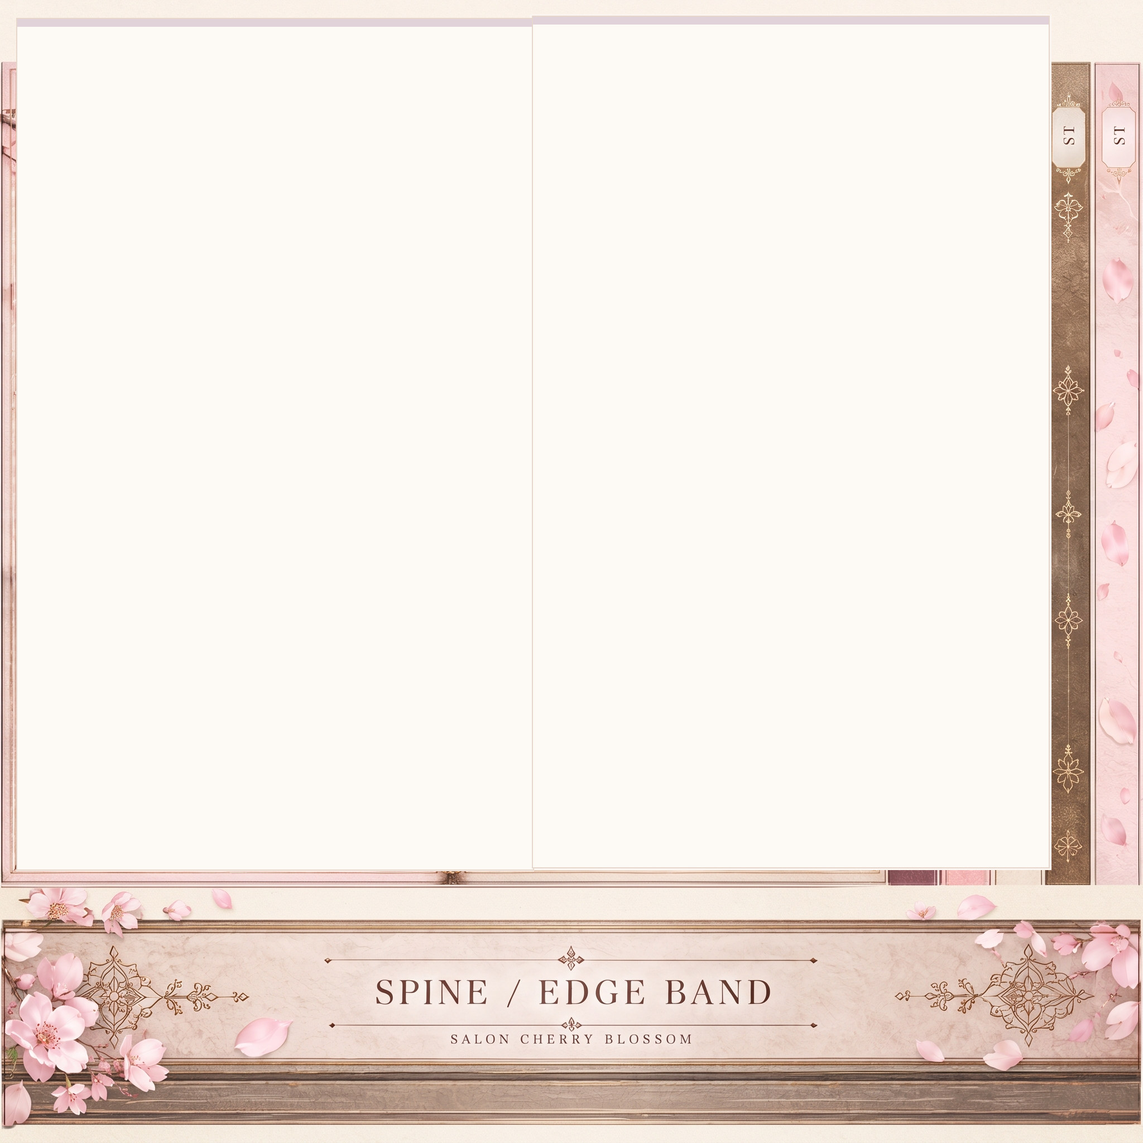
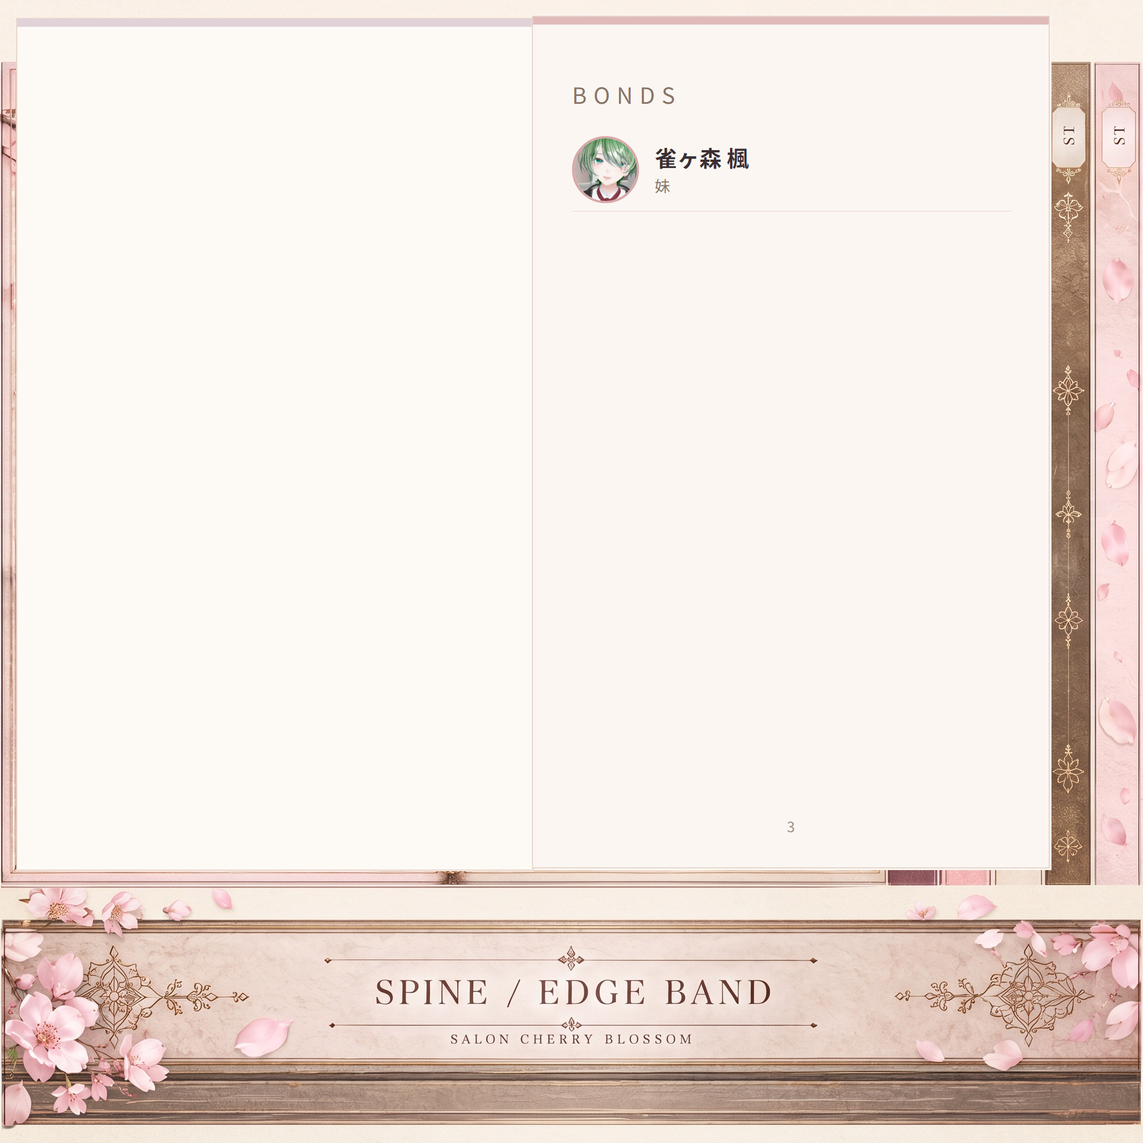
Members edit profile/outfits/book pages with uploads; relations (approved, published); studio fixes for pasted text; re-rendered books with intro/relations pages

Changed region(s): [[0.4688, 0.0, 0.9062, 0.0312], [0.5, 0.125, 0.6562, 0.1875], [0.5, 0.0625, 0.5938, 0.0938]]

diff --git a/relationships/relationships.js b/relationships/relationships.js
@@ -1,21 +1,24 @@
 "use strict";
 const $=id=>document.getElementById(id);const svgNS='http://www.w3.org/2000/svg';
-let people=[],mode='samples',selected=null,zoom=1,panX=0,panY=0;const samples=[{id:'sample-a',name:'サンプル A',x:260,y:190,color:'#c996b0'},{id:'sample-b',name:'サンプル B',x:510,y:130,color:'#a7bacc'},{id:'sample-c',name:'サンプル C',x:755,y:210,color:'#e0ad88'},{id:'sample-d',name:'サンプル D',x:250,y:480,color:'#9abfa8'},{id:'sample-e',name:'サンプル E',x:535,y:505,color:'#c9acc5'},{id:'sample-f',name:'サンプル F',x:780,y:485,color:'#d5bf87'}];
+let rels=[],people=[],mode='samples',selected=null,zoom=1,panX=0,panY=0;const samples=[{id:'sample-a',name:'サンプル A',x:260,y:190,color:'#c996b0'},{id:'sample-b',name:'サンプル B',x:510,y:130,color:'#a7bacc'},{id:'sample-c',name:'サンプル C',x:755,y:210,color:'#e0ad88'},{id:'sample-d',name:'サンプル D',x:250,y:480,color:'#9abfa8'},{id:'sample-e',name:'サンプル E',x:535,y:505,color:'#c9acc5'},{id:'sample-f',name:'サンプル F',x:780,y:485,color:'#d5bf87'}];
 const sampleEdges=[['sample-a','sample-b','family'],['sample-b','sample-c','friend'],['sample-a','sample-d','school'],['sample-d','sample-e','friend'],['sample-e','sample-f','love'],['sample-c','sample-f','school'],['sample-b','sample-e','friend']];
 const nrm=s=>String(s||'').normalize('NFKC').toLowerCase().replace(/[\s\u3000・･_-]+/g,'').replace(/[\u30a1-\u30f6]/g,ch=>String.fromCharCode(ch.charCodeAt(0)-96));
 function el(tag,attrs={},txt){const v=document.createElementNS(svgNS,tag);Object.entries(attrs).forEach(([k,val])=>v.setAttribute(k,String(val)));if(txt!==undefined)v.textContent=txt;return v;}
 function activeNodes(){if(mode==='samples')return samples;const g=$('gradeSelect').value;const subset=people.filter(p=>g==='all'||(g==='teacher'?p.kind==='teacher':p.grade===g));return subset.map((p,i)=>({...p,x:110+(i%7)*130+(Math.floor(i/7)%2)*15,y:70+Math.floor(i/7)*94}));}
 function render(){const root=$('relSvg');root.replaceChildren();const nodes=activeNodes(),ids=new Map(nodes.map(n=>[n.id,n]));const defs=el('defs');const marker=el('marker',{id:'arrow',markerWidth:10,markerHeight:8,refX:8,refY:4,orient:'auto'});marker.append(el('path',{d:'M0 0 L10 4 L0 8 Z',fill:'#af788a'}));defs.append(marker);root.append(defs);const viewport=el('g',{transform:`translate(${panX} ${panY}) scale(${zoom})`});root.append(viewport);if(mode==='samples')for(const [a,b,type] of sampleEdges){if(!document.querySelector(`input[value="${type}"]`).checked)continue;const p=ids.get(a),q=ids.get(b);if(p&&q)viewport.append(el('line',{x1:p.x,y1:p.y,x2:q.x,y2:q.y,class:`edge ${type}${selected?(a===selected||b===selected?' emphasized':' dimmed'):''}`}));}
+const relClass=k=>k==='sister'||k==='blood'?'family':k==='friend'||k==='other'?'friend':'school';
+if(mode==='people')for(const r of rels){const type=relClass(r.kind),box=document.querySelector('input[value="'+type+'"]');if(box&&!box.checked)continue;const p=ids.get(r.a),q=ids.get(r.b);if(p&&q)viewport.append(el('line',{x1:p.x,y1:p.y,x2:q.x,y2:q.y,class:'edge '+type+(selected?(r.a===selected||r.b===selected?' emphasized':' dimmed'):''),'stroke-dasharray':r.kind==='blood'?'10 6':'none'}));}
 for(const p of nodes){const g=el('g',{class:(mode==='people'?'node-hit public-node':'node-hit')+(selected===p.id?' is-selected':''),tabindex:'0',role:'button','aria-label':p.name,x:0});g.append(el('circle',{cx:p.x,cy:p.y,r:mode==='people'?36:47,class:'node-halo','pointer-events':'none'}));
 g.append(el('rect',{x:p.x-(mode==='people'?62:66),y:p.y+(mode==='people'?34:46),width:mode==='people'?124:132,height:mode==='people'?29:32,rx:5,class:'node-nameplate','pointer-events':'none'}));
 g.append(el('circle',{cx:p.x,cy:p.y,r:mode==='people'?30:39,class:`node-circle ${selected===p.id?'selected':''}`}));const portrait=p.portrait||p.image;
 if(mode==='people'&&typeof portrait==='string'&&/^assets\/[A-Za-z0-9_./-]+\.(png|jpg|jpeg|webp)$/i.test(portrait)&&!portrait.includes('..')){
 const clipId='scb-node-'+String(p.id).replace(/[^a-zA-Z0-9_-]/g,'');const clip=el('clipPath',{id:clipId});clip.append(el('circle',{cx:p.x,cy:p.y,r:26}));defs.append(clip);
 g.append(el('image',{href:'../'+portrait,x:p.x-26,y:p.y-26,width:52,height:52,'clip-path':`url(#${clipId})`,preserveAspectRatio:'xMidYMid slice',class:'node-portrait','pointer-events':'none'}));
-}else{g.append(el('image',{href:'../assets/art-system/'+(p.kind==='teacher'?'v088/icon-book.svg':'v089/person.svg'),x:p.x-20,y:p.y-20,width:40,height:40,class:'node-symbol','pointer-events':'none'}));}g.append(el('text',{x:p.x,y:p.y+(mode==='people'?45:64),class:'node-name'},p.name));if(mode==='people')g.append(el('text',{x:p.x,y:p.y+61,class:'node-meta'},p.kind==='teacher'?'教員':p.grade||''));g.addEventListener('click',()=>choose(p.id));g.addEventListener('keydown',e=>{if(e.key==='Enter'||e.key===' '){e.preventDefault();choose(p.id)}});viewport.append(g)}$('mapTitle').textContent=mode==='samples'?'架空の関係サンプル':`公開人物一覧・${nodes.length}名（関係未掲載）`;$('mapCaption').textContent=mode==='samples'?'架空のサンプル人物による操作確認用の図です。':'実在人物の基本情報のみ。関係線は公開承認されるまで表示しません。';$('zoomLabel').textContent=Math.round(zoom*100)+'%';}
-function choose(id){selected=id;const p=(mode==='samples'?samples:people).find(p=>p.id===id);if(!p)return;const box=$('selectedCard');box.replaceChildren();if(p.portrait||p.image){const img=document.createElement('img');img.className='selected-portrait';img.src='../'+(p.portrait||p.image).replace(/^assets\//,'assets/');img.alt=p.name;box.append(img)}else{const x=document.createElement('div');x.className='selected-placeholder';x.textContent='❀';box.append(x)}const name=document.createElement('h3');name.className='selected-name';name.textContent=p.name;box.append(name);if(mode==='samples'){const warning=document.createElement('p');warning.className='selected-unverified';warning.textContent='架空のサンプル人物です。実在の人物・関係ではありません。';box.append(warning)}else{const kana=document.createElement('p');kana.className='selected-kana';kana.textContent=p.nameKana||p.romaji||'';box.append(kana);for(const label of [p.kind==='teacher'?'教員':p.grade,p.club,p.status==='graduated'?'卒業':null].filter(Boolean)){const sp=document.createElement('span');sp.className='selected-tag';sp.textContent=label;box.append(sp)}const link=document.createElement('a');link.href='../characters/?id='+encodeURIComponent(p.id);link.className='selected-link';link.textContent='人物資料を開く →';box.append(link);const warning=document.createElement('p');warning.className='selected-unverified';warning.textContent='関係情報は公開確認待ちです。';box.append(warning)}render();}
+}else{g.append(el('image',{href:'../assets/art-system/'+(p.kind==='teacher'?'v088/icon-book.svg':'v089/person.svg'),x:p.x-20,y:p.y-20,width:40,height:40,class:'node-symbol','pointer-events':'none'}));}g.append(el('text',{x:p.x,y:p.y+(mode==='people'?45:64),class:'node-name'},p.name));if(mode==='people')g.append(el('text',{x:p.x,y:p.y+61,class:'node-meta'},p.kind==='teacher'?'教員':p.grade||''));g.addEventListener('click',()=>choose(p.id));g.addEventListener('keydown',e=>{if(e.key==='Enter'||e.key===' '){e.preventDefault();choose(p.id)}});viewport.append(g)}$('mapTitle').textContent=mode==='samples'?'架空の関係サンプル':`公開人物一覧・${nodes.length}名${rels.length?'・関係 '+rels.length+' 件':'（関係未掲載）'}`;$('mapCaption').textContent=mode==='samples'?'架空のサンプル人物による操作確認用の図です。':rels.length?'公開承認済みの関係線のみ表示しています。人物を選ぶと、その人物の関係が強調されます。':'実在人物の基本情報のみ。関係線は公開承認されるまで表示しません。';$('zoomLabel').textContent=Math.round(zoom*100)+'%';}
+function choose(id){selected=id;const p=(mode==='samples'?samples:people).find(p=>p.id===id);if(!p)return;const box=$('selectedCard');box.replaceChildren();if(p.portrait||p.image){const img=document.createElement('img');img.className='selected-portrait';img.src='../'+(p.portrait||p.image).replace(/^assets\//,'assets/');img.alt=p.name;box.append(img)}else{const x=document.createElement('div');x.className='selected-placeholder';x.textContent='❀';box.append(x)}const name=document.createElement('h3');name.className='selected-name';name.textContent=p.name;box.append(name);if(mode==='samples'){const warning=document.createElement('p');warning.className='selected-unverified';warning.textContent='架空のサンプル人物です。実在の人物・関係ではありません。';box.append(warning)}else{const kana=document.createElement('p');kana.className='selected-kana';kana.textContent=p.nameKana||p.romaji||'';box.append(kana);for(const label of [p.kind==='teacher'?'教員':p.grade,p.club,p.status==='graduated'?'卒業':null].filter(Boolean)){const sp=document.createElement('span');sp.className='selected-tag';sp.textContent=label;box.append(sp)}const link=document.createElement('a');link.href='../characters/?id='+encodeURIComponent(p.id);link.className='selected-link';link.textContent='人物資料を開く →';box.append(link);const warning=document.createElement('p');warning.className='selected-unverified';const mine=rels.filter(r=>r.a===p.id||r.b===p.id);if(mine.length){const ul=document.createElement('ul');ul.className='selected-bonds';for(const r of mine){const o=people.find(x=>x.id===(r.a===p.id?r.b:r.a));if(!o)continue;const li=document.createElement('li');const a=document.createElement('a');a.href='../characters/?id='+encodeURIComponent(o.id);a.textContent=o.name;li.append(a,document.createTextNode(' — '+(r.label||({sister:r.a===p.id?'妹':'お姉様',blood:'血縁',friend:'友人',acquaintance:'知人',other:'関係者'})[r.kind])));ul.append(li)}box.append(ul)}else{const warning=document.createElement('p');warning.className='selected-unverified';warning.textContent='公開承認済みの関係はまだありません。';box.append(warning)}}render();}
 function search(q){const panel=$('personMatches');panel.replaceChildren();if(!q.trim())return;const matches=people.filter(p=>[p.name,p.nameKana,p.romaji].some(v=>nrm(v).includes(nrm(q)))).slice(0,12);if(!matches.length){panel.textContent='該当する人物が見つかりません。';return}for(const p of matches){const b=document.createElement('button');b.textContent=p.name+' · '+(p.grade||'教員');b.addEventListener('click',()=>{mode='people';$('viewMode').value='people';$('gradeSelect').value='all';selected=p.id;zoom=1;const target=activeNodes().find(n=>n.id===p.id);panX=target?500-target.x:0;panY=target?350-target.y:0;render();choose(p.id);$('personSearch').value=p.name;panel.replaceChildren();$('mapViewport').scrollIntoView({behavior:'smooth',block:'nearest'})});panel.append(b)}}
 function reset(){mode=$('viewMode').value;selected=null;zoom=1;panX=panY=0;$('selectedCard').innerHTML='<div class="empty-selection"><span>❀</span><p>人物を選択すると、ここに基本情報が表示されます。</p></div>';render();}
 $('menuToggle').addEventListener('click',()=>{const open=$('siteNav').classList.toggle('open');$('menuToggle').setAttribute('aria-expanded',String(open))});$('personSearch').addEventListener('input',e=>search(e.target.value));$('viewMode').addEventListener('change',reset);$('gradeSelect').addEventListener('change',()=>{if(mode==='people')reset()});document.querySelectorAll('#relationTypes input').forEach(el=>el.addEventListener('change',render));$('resetView').addEventListener('click',()=>{$('viewMode').value='samples';$('gradeSelect').value='all';$('personSearch').value='';$('personMatches').replaceChildren();document.querySelectorAll('#relationTypes input').forEach(x=>x.checked=true);reset()});function setZoom(z){zoom=Math.max(.6,Math.min(2.3,z));render()}$('zoomIn').addEventListener('click',()=>setZoom(zoom*1.2));$('zoomOut').addEventListener('click',()=>setZoom(zoom/1.2));$('fitView').addEventListener('click',()=>{zoom=1;panX=panY=0;render()});
 const view=$('mapViewport');let dragging=false,dragAt=null;view.addEventListener('pointerdown',e=>{if(e.target.closest('.node-hit'))return;dragging=true;dragAt={x:e.clientX,y:e.clientY};view.setPointerCapture(e.pointerId)});view.addEventListener('pointermove',e=>{if(!dragging)return;const r=view.getBoundingClientRect();panX+=(e.clientX-dragAt.x)*1000/r.width;panY+=(e.clientY-dragAt.y)*700/r.height;dragAt={x:e.clientX,y:e.clientY};render()});view.addEventListener('pointerup',()=>dragging=false);view.addEventListener('pointercancel',()=>dragging=false);view.addEventListener('wheel',e=>{e.preventDefault();setZoom(zoom*(e.deltaY>0?.9:1.1))},{passive:false});view.addEventListener('keydown',e=>{if(e.key==='+')setZoom(zoom*1.2);else if(e.key==='-')setZoom(zoom/1.2);else if(['ArrowUp','ArrowDown','ArrowLeft','ArrowRight'].includes(e.key)){e.preventDefault();panX+=e.key==='ArrowLeft'?-35:e.key==='ArrowRight'?35:0;panY+=e.key==='ArrowUp'?-35:e.key==='ArrowDown'?35:0;render()}});
 fetch('../data/public-people-all.json').then(r=>{if(!r.ok)throw new Error('HTTP '+r.status);return r.json()}).then(data=>{people=data.people||[];render()}).catch(err=>{console.warn('Public people data unavailable:',err);$('mapCaption').textContent='人物データを読み込めません。ローカルサーバーで開いてください。';render()});render();
+fetch('../data/relations.json').then(r=>r.ok?r.json():{relations:[]}).then(d=>{rels=Array.isArray(d.relations)?d.relations:[];render()}).catch(()=>{});

diff --git a/studio/index.html b/studio/index.html
@@ -1,1 +1,1 @@
-<!doctype html><html lang="ja"><head><meta charset="utf-8"><meta name="viewport" content="width=device-width,initial-scale=1"><title>クラウド管理 | SCB Library</title><link rel="stylesheet" href="../style.css"><link rel="stylesheet" href="../admin/admin.css"><style>.cloud-wrap{max-width:1050px;margin:6rem auto 3rem;padding:1.2rem}.cloud-box{background:#fffaf5;border:1px solid #c9b8a6;border-radius:14px;padding:1.4rem;margin:1.2rem 0}.cloud-box button{margin:.3rem}.cloud-box input,.cloud-box select{width:100%;padding:.6rem;max-width:500px}.cloud-grid{display:grid;grid-template-columns:1fr 2fr;gap:1rem}@media(max-width:700px){.cloud-grid{grid-template-columns:1fr}}#cloudFields label{display:block;margin:.7rem 0}#cloudFields input{max-width:none}pre{white-space:pre-wrap;overflow-wrap:anywhere}</style></head><body><div class="prototype-ribbon">v0.7 CLOUD ALPHA ・ 未設定の場合は利用できません ・ 本番公開ではありません</div><main class="cloud-wrap"><p class="eyebrow">SALON CHERRY BLOSSOM · CLOUD STUDIO</p><h1>人物管理 · クラウド草稿</h1><p>Discord で認証し、権限が確認できた人物の編集差分だけをクラウドに保存します。サイトと VRChat World への公開はまだ行いません。</p><div class="cloud-box"><h2>認証</h2><p id="cloudUser" role="status">設定確認中…</p><button id="login" type="button">Discord でログイン</button><button id="logout" type="button" hidden>ログアウト</button><p id="privilege"></p></div><div class="cloud-grid"><div class="cloud-box"><label for="character">編集対象</label><select id="character" disabled><option>ログインが必要です</option></select><p id="revision"></p></div><div class="cloud-box"><h2 id="personTitle">人物を選択してください</h2><form id="cloudFields"></form><div><button type="button" id="saveCloud" disabled>クラウド草稿を保存</button><button type="button" id="discardFields" disabled>変更を破棄</button></div><p id="cloudStatus" role="status" aria-live="polite"></p><pre id="conflictOutput" hidden></pre></div></div><p><a href="../admin/">ローカル編集ツール（非認証）</a> · <a href="../characters/">人物アーカイブ</a></p></main><script src="config.js"></script><script type="module" src="studio.js"></script></body></html>
+<!doctype html><html lang="ja"><head><meta charset="utf-8"><meta name="viewport" content="width=device-width,initial-scale=1"><title>クラウド管理 | SCB Library</title><link rel="stylesheet" href="../style.css"><link rel="stylesheet" href="../admin/admin.css"><style>.cloud-wrap{max-width:1050px;margin:6rem auto 3rem;padding:1.2rem}.cloud-box{background:#fffaf5;border:1px solid #c9b8a6;border-radius:14px;padding:1.4rem;margin:1.2rem 0}.cloud-box button{margin:.3rem}.cloud-box input,.cloud-box select{width:100%;padding:.6rem;max-width:500px}.cloud-grid{display:grid;grid-template-columns:1fr 2fr;gap:1rem}@media(max-width:700px){.cloud-grid{grid-template-columns:1fr}}#cloudFields label{display:block;margin:.7rem 0}#cloudFields input{max-width:none}pre{white-space:pre-wrap;overflow-wrap:anywhere}</style></head><body><div class="prototype-ribbon">v0.7 CLOUD ALPHA ・ 未設定の場合は利用できません ・ 本番公開ではありません</div><main class="cloud-wrap"><p class="eyebrow">SALON CHERRY BLOSSOM · CLOUD STUDIO</p><h1>人物管理 · クラウド草稿</h1><p>Discord で認証し、権限が確認できた人物の編集差分だけをクラウドに保存します。サイトと VRChat World への公開はまだ行いません。</p><div class="cloud-box"><h2>認証</h2><p id="cloudUser" role="status">設定確認中…</p><button id="login" type="button">Discord でログイン</button><button id="logout" type="button" hidden>ログアウト</button><p id="privilege"></p></div><div class="cloud-grid"><div class="cloud-box"><label for="character">編集対象</label><select id="character" disabled><option>ログインが必要です</option></select><p id="revision"></p></div><div class="cloud-box"><h2 id="personTitle">人物を選択してください</h2><form id="cloudFields"></form><div><button type="button" id="saveCloud" disabled>クラウド草稿を保存</button><button type="button" id="discardFields" disabled>変更を破棄</button></div><p id="cloudStatus" role="status" aria-live="polite"></p><pre id="conflictOutput" hidden></pre></div></div><div class="cloud-box" id="relInbox" hidden><h2>あなたの確認待ち</h2><p class="muted">あなたが担当する人物に対して、他のメンバーから関係の提案が届いています。承認すると管理者の審査に進みます。</p><div id="relInboxList"></div></div><div class="cloud-box" id="relBox" hidden><h2 id="relTitle">関係（絆）</h2><p class="muted">この人物の関係を登録します。相手の担当者が同意し、管理者が承認すると公開されます（姉妹・血縁は看板と書籍にも載ります）。</p><div id="relList"></div><h3>関係を提案する</h3><div id="relForm"></div><p id="relStatus" role="status" aria-live="polite"></p></div><p><a href="review.html">草稿の審査（管理者）</a> · <a href="../characters/">人物アーカイブ</a></p></main><script src="config.js"></script><script type="module" src="studio.js"></script></body></html>

diff --git a/studio/review.js b/studio/review.js
@@ -5,7 +5,7 @@ import { createClient } from 'https://cdn.jsdelivr.net/npm/@supabase/supabase-js
 const $ = id => document.getElementById(id);
 const cfg = window.SCB_SUPABASE_CONFIG || {};
 const ready = /^https:\/\/[\w-]+\.supabase\.co$/.test(cfg.url) && !!cfg.anonKey;
-const LABELS = { name: '名前', nameKana: 'よみがな', romaji: 'ローマ字', kind: '区分', grade: '学年', club: '所属', status: '在籍状況', group: '副題', color: '代表色', portrait: '肖像画像', fullBody: '全身画像', gallery: 'ギャラリー', species: '種族', height: '身長', likes: '好きなもの', dislikes: '苦手なもの', firstPerson: '一人称', secondPerson: '二人称', about: '人物紹介', outfits: 'ギャラリー（衣装別）' };
+const LABELS = { name: '名前', nameKana: 'よみがな', romaji: 'ローマ字', kind: '区分', grade: '学年', club: '所属', status: '在籍状況', group: '副題', color: '代表色', portrait: '肖像画像', fullBody: '全身画像', gallery: 'ギャラリー', species: '種族', height: '身長', likes: '好きなもの', dislikes: '苦手なもの', firstPerson: '一人称', secondPerson: '二人称', about: '人物紹介', outfits: 'ギャラリー（衣装別）', bookPages: '個人ブックのページ' };
 const ORDER = Object.keys(LABELS);
 const VALUE_WORDS = { student: '生徒', teacher: '教員', active: '在籍中', graduated: '卒業' };
 const SAFE_IMG = /^assets\/[A-Za-z0-9_./-]+$/;
@@ -37,6 +37,13 @@ function valueCell(key, v, cls) {
       for (const path of (o && Array.isArray(o.images) ? o.images : [])) { const t = thumbFor(path); if (t) row.append(t); }
       td.append(row);
     }
+    return td;
+  }
+  if (key === 'bookPages' && Array.isArray(v)) {
+    v.forEach((b, i) => {
+      td.append(el('div', '', `ページ ${i + 1}${b && b.caption ? '：' + b.caption : ''}`));
+      const t = b ? thumbFor(b.image) : null; if (t) td.append(t);
+    });
     return td;
   }
   if (Array.isArray(v)) { td.textContent = v.join('\n'); td.style.whiteSpace = 'pre-line'; return td; }
@@ -84,6 +91,32 @@ async function load() {
   $('count').textContent = list.length ? `${list.length} 件の草稿` : '';
 }
 
+const KIND_WORDS = { sister: '姉妹（お姉様と妹）', blood: '血縁', friend: '友人', acquaintance: '知人', other: 'その他' };
+async function loadRelations() {
+  const list = need(await api.rpc('scb_admin_relation_queue'));
+  const box = $('relQueue'); box.replaceChildren();
+  for (const r of list) {
+    const removal = r.status === 'approved' && r.removal_requested;
+    const row = el('div', 'cloud-box');
+    const elder = (r.kind === 'sister' || r.kind === 'blood') ? `（年長者：${r.a_name}）` : '';
+    row.append(el('h3', '', `${removal ? '【削除申請】' : ''}${r.a_name} ⇔ ${r.b_name}`));
+    row.append(el('div', 'sub', `${KIND_WORDS[r.kind] || r.kind}${elder}${r.label ? ' ／ 表示名：' + r.label : ''}${r.note ? ' ／ メモ：' + r.note : ''}`));
+    row.append(el('div', 'sub', `提案：${r.proposer_name || '（名前なし）'}${r.counterpart_name ? ' ／ 相手側の確認：' + r.counterpart_name : ''} ／ ${fmt(r.created_at)}`));
+    const yes = el('button', '', removal ? '削除を承認' : '承認（公開対象にする）'); yes.type = 'button';
+    const no = el('button', 'danger', removal ? '削除しない' : '却下'); no.type = 'button';
+    const decide = async approve => {
+      let reason = null;
+      if (!removal && !approve) { reason = prompt('却下の理由（任意・200字まで）', ''); if (reason === null) return; }
+      yes.disabled = no.disabled = true;
+      try { need(await api.rpc('scb_admin_decide_relation', { rid: r.id, approve, reason: reason && reason.trim() || null })); await loadRelations(); say('処理しました。', 'ok'); }
+      catch (e) { say('失敗しました: ' + e.message, 'err'); yes.disabled = no.disabled = false; }
+    };
+    yes.onclick = () => decide(true); no.onclick = () => decide(false);
+    row.append(yes, no); box.append(row);
+  }
+  $('relNone').hidden = list.length > 0;
+}
+
 async function commit(d, approve, reject) {
   const who = (d.display_name && d.display_name.trim()) || '編集者';
   if (!confirm(`${d.character_name || d.character_id} への ${who} の草稿を承認し、データベースに反映しますか？\n（公開サイトと World は、公開コマンドを実行するまで変わりません）`)) return;
@@ -124,6 +157,7 @@ async function start() {
     if (!admin) return;
     $('panel').hidden = false;
     await load();
+    await loadRelations();
   } catch (e) { $('who').textContent = '初期化に失敗しました: ' + e.message; $('who').className = 'err'; }
 }
 
@@ -136,6 +170,6 @@ else {
     if (error) say(error.message, 'err');
   };
   $('logout').onclick = async () => { await api.auth.signOut(); location.reload(); };
-  $('reload').onclick = async () => { try { await load(); say(''); } catch (e) { say('更新に失敗しました: ' + e.message, 'err'); } };
+  $('reload').onclick = async () => { try { await load(); await loadRelations(); say(''); } catch (e) { say('更新に失敗しました: ' + e.message, 'err'); } };
   start();
 }

diff --git a/studio/review.html b/studio/review.html
@@ -20,6 +20,7 @@ td.before{color:#7b6b5e}td.after{background:#f3fbf5}tr.conflict td{background:#f
  <div class="cloud-box"><button id="reload" type="button">一覧を更新</button> <span id="count" class="muted"></span><p id="msg" role="status" aria-live="polite"></p></div>
  <div id="drafts"></div>
  <p id="none" class="muted" hidden>審査待ちの草稿はありません。</p>
+ <div class="cloud-box"><h2>関係（絆）の審査</h2><p class="muted">相手側の確認が済んだ提案と、公開済みの関係の削除申請です。承認した関係は publish_from_db.py で人物ページ・関係図・看板・書籍に反映されます。</p><div id="relQueue"></div><p id="relNone" class="muted" hidden>審査待ちの関係はありません。</p></div>
 </div>
 <p><a href="./">クラウド草稿</a> · <a href="./roles.html">編集者の割り当て</a> · <a href="../characters/">人物アーカイブ</a></p>
 </main>
